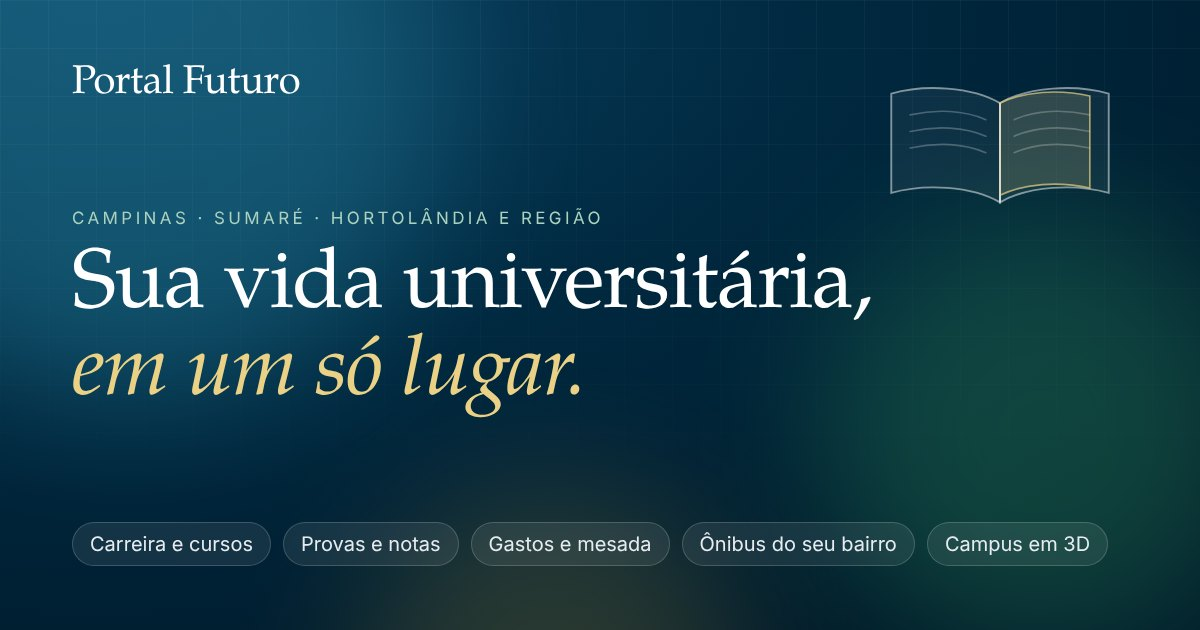
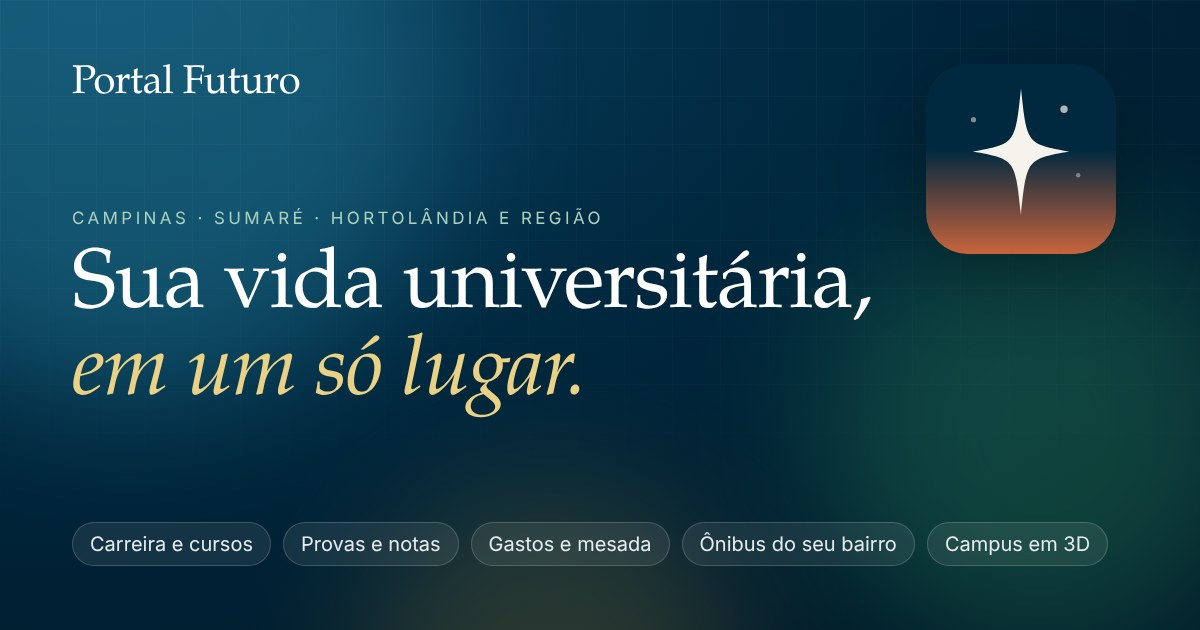
Portal Futuro v1.17
Claude-Session: https://claude.ai/code/session_011oVBKHtV2veaFqoftfGkWy

Changed region(s): [[0.74, 0.1206, 0.9558, 0.4222]]

diff --git a/404.html b/404.html
@@ -19,15 +19,14 @@
     <a class="nf-brand" href="/">Portal Futuro</a>
     <figure class="nf-art" aria-hidden="true">
       <svg viewBox="0 0 220 140">
-        <path class="pg" d="M110 30 C86 16 46 14 18 22 V106 C46 98 86 100 110 114 Z"/>
-        <path class="pg" d="M110 30 C134 16 174 14 202 22 V106 C174 98 134 100 110 114 Z"/>
-        <path class="ln" d="M34 40 C56 35 80 36 98 44 M34 54 C56 49 80 50 98 58 M122 44 C140 36 164 35 186 40 M122 58 C140 50 164 49 186 54"/>
-        <path class="sp" d="M110 30 V114"/>
+        <path class="ln" d="M8 124 C60 108 92 120 126 104 C150 92 168 98 212 82" stroke-dasharray="2 7"/>
+        <path class="st" d="M96 16C100.1 56.5 100.1 56.5 130 62C100.1 67.5 100.1 67.5 96 108C91.9 67.5 91.9 67.5 62 62C91.9 56.5 91.9 56.5 96 16Z"/>
+        <circle class="dot" cx="40" cy="30" r="2.2"/><circle class="dot" cx="186" cy="24" r="1.8"/><circle class="dot" cx="200" cy="58" r="1.4"/>
         <g class="q"><circle cx="160" cy="84" r="16"/><text x="160" y="91" text-anchor="middle">?</text></g>
       </svg>
     </figure>
     <p class="nf-kick">Erro 404</p>
-    <h1>Esta página saiu <em>do caderno.</em></h1>
+    <h1>Esta página saiu <em>da rota.</em></h1>
     <p class="nf-lead">O endereço pode estar errado ou a página mudou de lugar. Tudo o que você salvou na sua conta continua lá.</p>
     <div class="nf-actions">
       <a class="nf-btn" href="/">Voltar ao início</a>

diff --git a/assets/css/404.css b/assets/css/404.css
@@ -12,7 +12,8 @@ html,body{margin:0;min-height:100%;background:var(--bg);color:var(--fg);font-fam
 .nf-art svg{display:block;width:100%;height:auto}
 .pg{fill:rgb(255 255 255 / .06);stroke:rgb(255 255 255 / .55);stroke-width:1.6}
 .ln{fill:none;stroke:rgb(255 255 255 / .28);stroke-width:1.4;stroke-linecap:round}
-.sp{stroke:rgb(255 255 255 / .6);stroke-width:1.6}
+.st{fill:#F6F3EC}
+.dot{fill:rgb(255 255 255 / .55)}
 .q circle{fill:var(--gold)} .q text{font-family:'Instrument Serif',Georgia,serif;font-size:22px;fill:#00283f}
 .q{transform-origin:160px 84px;animation:bob 3.2s ease-in-out infinite}
 @keyframes bob{0%,100%{transform:translateY(0)}50%{transform:translateY(-6px)}}

diff --git a/README.md b/README.md
@@ -46,7 +46,7 @@ Dê dois cliques em `index.html`. Ele abre em qualquer navegador e não precisa 
 portal-futuro/
 ├── index.html            Páginas, textos e ilustrações
 ├── assets/css/style.css  Visual: cores, fontes e layout (claro e escuro)
-├── assets/img/favicon.svg  Ícone da aba (livro aberto)
+├── assets/img/favicon.svg  Ícone da aba (estrela-guia)
 ├── assets/vendor/three-r128.min.js  Biblioteca 3D (three.js, licença MIT) usada no campus
 ├── assets/js/config.js   Endereço e chave pública do Supabase
 ├── assets/js/app.js      Navegação, login, sincronização, calendário, finanças, provas, agenda e salários
@@ -81,6 +81,7 @@ As datas fixas (Unicamp, ENEM e feriados) e as faixas salariais ficam no início
 
 ## Histórico de versões
 
+- **v1.17 (20/10/2026):** a estrela-guia substitui o livro aberto em toda a identidade: imagem de compartilhamento (`og-cover.jpg`) e página "não encontrada" (agora "Esta página saiu da rota.").
 - **v1.16 (20/10/2026):** novo ícone do site e do aplicativo: estrela-guia sobre um céu de amanhecer (`favicon.svg` e os ícones PNG do aplicativo, com versão "maskable" para Android).
 - **v1.15 (20/10/2026):** instalar como aplicativo no celular e no computador (PWA: `manifest.webmanifest`, `sw.js`, ícones), com passo a passo para iPhone; página "não encontrada" (`404.html`); botões para levar provas e agenda ao Google Agenda (arquivo `.ics`, com lembrete); cronômetro de estudo (Pomodoro 25/5/15) no Planejamento; revisão de acessibilidade (contraste das cores, link "Pular para o conteúdo", foco visível no teclado); seção "Números do portal" no perfil, só para o dono, com totais sem dados pessoais (`supabase/numeros.sql`).
 - **v1.14 (20/10/2026):** cartão de prévia para WhatsApp e redes (`assets/img/og-cover.jpg`); botão "Dar opinião" que guarda sugestões e problemas na tabela `feedback` do Supabase (só o dono lê, no Table Editor); datas conferidas em fontes oficiais (incluídos gabarito e convocados da Unicamp; 14/07 retirado por não ser feriado em Campinas; incluído o Dia do Evangélico, 12/08); biblioteca 3D baixada só ao abrir a página Campus.
